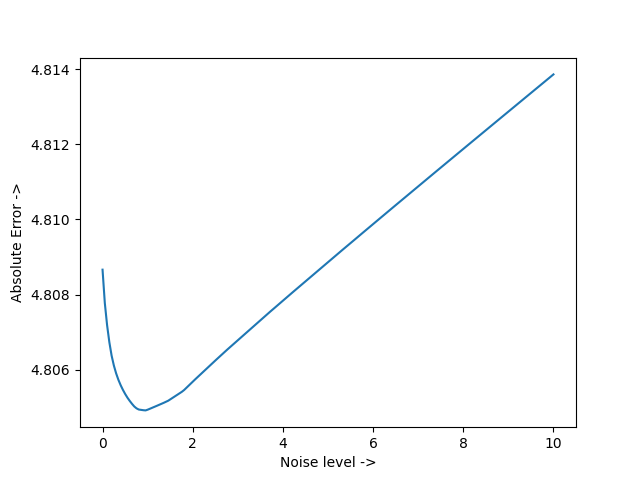
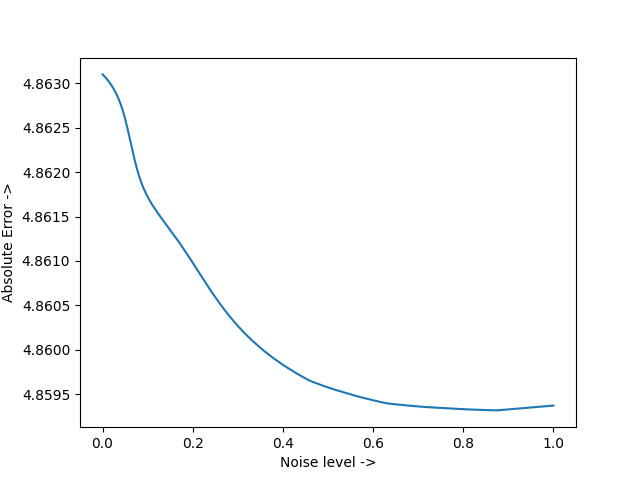
time error z=0 to 1

diff --git a/noise.py b/noise.py
@@ -29,7 +29,7 @@ def evaluate():
 def evaluate_noise():
     model.eval()
 
-    errors = np.linspace(0,10,200)
+    errors = np.linspace(0,1,200)
     abs_err = []
 
     for z in errors:
